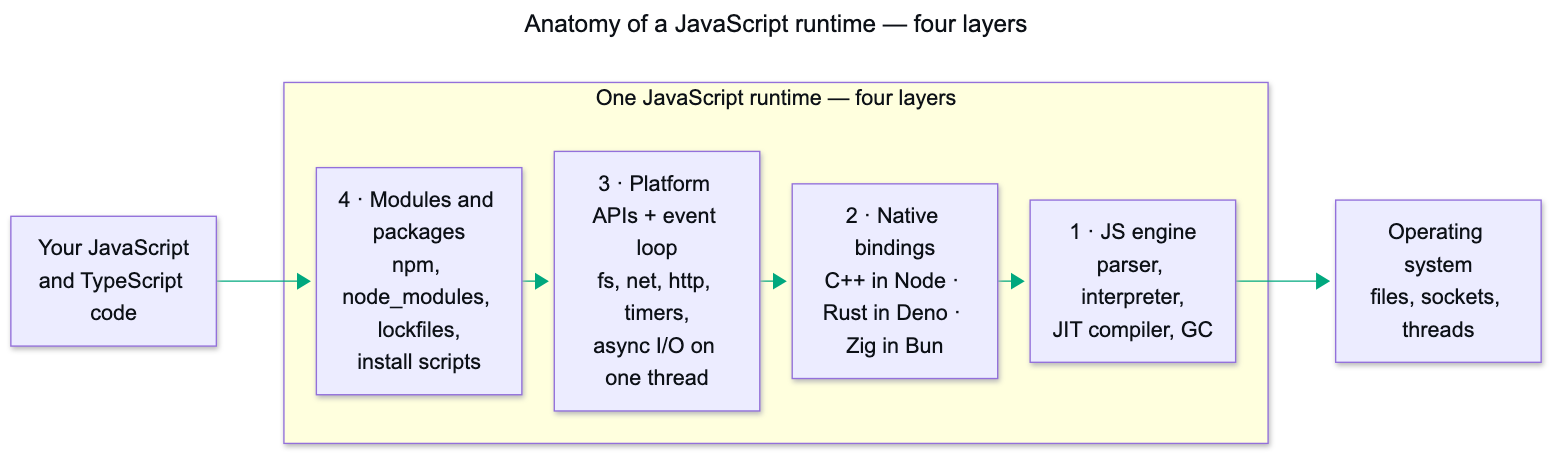
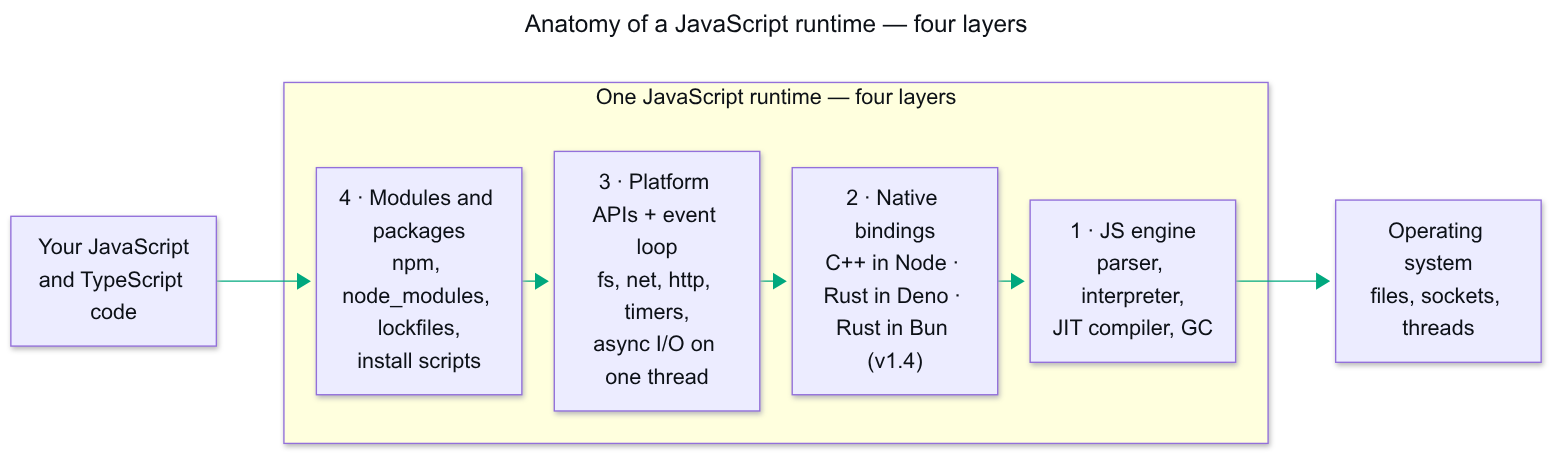
feat: update B-29/P-12 for Bun's Rust rewrite and runtime LTS models

diff --git a/presentations/P-12-runtime-war/index.html b/presentations/P-12-runtime-war/index.html
@@ -341,8 +341,8 @@ ul.refs li a{color:var(--muted);text-decoration:underline}
         <thead><tr><th>Layer</th><th>Node</th><th>Deno</th><th class="hl">Bun</th></tr></thead>
         <tbody>
           <tr><th>1 · Engine</th><td>V8 <span class="mono">[15]</span></td><td>V8 <span class="mono">[18]</span></td><td class="hl">JavaScriptCore <span class="mono">[17]</span></td></tr>
-          <tr><th>2 · Bindings</th><td>C++</td><td>Rust — Rusty V8 <span class="mono">[18]</span></td><td class="hl">Zig <span class="mono">[17]</span></td></tr>
-          <tr><th>3 · Loop + APIs</th><td>libuv <span class="mono">[16]</span></td><td>own, on Rust</td><td class="hl">own, on Zig</td></tr>
+          <tr><th>2 · Bindings</th><td>C++</td><td>Rust — Rusty V8 <span class="mono">[18]</span></td><td class="hl">Rust since v1.4 — was Zig <span class="mono">[19]</span></td></tr>
+          <tr><th>3 · Loop + APIs</th><td>libuv <span class="mono">[16]</span></td><td>own, on Rust</td><td class="hl">own, on Rust (Zig ≤ 1.3)</td></tr>
           <tr><th>4 · Modules</th><td>npm + node_modules</td><td>URL-first → npm since Deno 2 <span class="mono">[14]</span></td><td class="hl">npm-compatible from day one <span class="mono">[1]</span></td></tr>
         </tbody>
       </table>
@@ -357,14 +357,31 @@ ul.refs li a{color:var(--muted);text-decoration:underline}
     <div class="three-col">
       <div class="mode"><span class="tech">2009 · the incumbent</span><h4>Node</h4><p>The gravity well. Every tool, tutorial, and CI image in this report's baseline targets it first — 17+ years of ecosystem compounding.</p></div>
       <div class="mode violet"><span class="tech">2020 · the reformer — exited 2026</span><h4>Deno</h4><p>Node's original author's clean-slate rethink: TypeScript- and security-first, famously without npm <span class="mono">[13]</span>. Deno 2 reversed the founding bet — full Node/npm compatibility <span class="mono">[14]</span>. Joined Cloudflare, Oct 2026 <span class="mono">[12]</span>.</p></div>
-      <div class="mode"><span class="tech">2022 · the challenger</span><h4>Bun</h4><p>Entered from the opposite direction: Node-compatible from day one, selling raw speed <span class="mono">[1]</span>. Now the last independent challenger.</p></div>
+      <div class="mode"><span class="tech">2022 · the challenger</span><h4>Bun</h4><p>Entered from the opposite direction: Node-compatible from day one, selling raw speed <span class="mono">[1]</span>. Now the last independent challenger — bindings rewritten Zig → Rust in v1.4, May 2026 <span class="mono">[19]</span>.</p></div>
     </div>
     <div class="callout violet"><b>What Deno's exit teaches — and why it frames this deck:</b> clean slates lose to ecosystem gravity. Deno even shipped npm compatibility and still consolidated. So this report measures Bun by its <i>Node compatibility</i> — the gaps, the one missing <span class="mono">node:v8</span> call — not by its speed claims.</div>
   </section>
 
+  <!-- 02b · RELEASE TRAINS -->
+  <section class="slide" data-title="Release trains and LTS">
+    <div class="slide-num">05 · the war so far</div>
+    <h3 class="section">How they ship: <em>release trains and support windows</em>.</h3>
+    <div class="table-wrap">
+      <table>
+        <thead><tr><th></th><th>Node</th><th>Deno</th><th class="hl">Bun</th></tr></thead>
+        <tbody>
+          <tr><th>Cadence</th><td>major every 6 months <span class="mono">[21]</span></td><td>stable minor every 12 weeks <span class="mono">[20]</span></td><td class="hl">frequent stable + canary <span class="mono">[19]</span></td></tr>
+          <tr><th>LTS</th><td>even lines only — 30 months of support <span class="mono">[21]</span></td><td>LTS channel since 2.1 — ended Apr 2026 <span class="mono">[20]</span></td><td class="hl">none</td></tr>
+          <tr><th>Can you sit still?</th><td>yes — pin an even line, quiet for ~2 years</td><td>no — maintenance mode under Cloudflare <span class="mono">[12]</span></td><td class="hl">no — keep moving</td></tr>
+        </tbody>
+      </table>
+    </div>
+    <div class="callout accent"><b>Why it matters to the ladder:</b> at tiers 1–2 a moving runtime is a cheap version bump in CI. At tier 3, "no LTS" means the pinned version carries no promised support window — and the 1.3 → 1.4 minor bump carried a full Zig → Rust rewrite of ~535K lines <span class="mono">[19]</span>. This deck's probes ran on 1.3.10, the last Zig line.</div>
+  </section>
+
   <!-- 03 · FOUR DECISIONS -->
   <section class="slide" data-title="One question, four decisions">
-    <div class="slide-num">05 · the frame</div>
+    <div class="slide-num">06 · the frame</div>
     <h3 class="section">The one-word answer is <em>always wrong</em>.</h3>
     <p class="lead">"Should we move to Bun?" gets a yes or a no — and with Deno joining Cloudflare this month, Node and Bun are the only two independent runtimes left. But "Bun" is four separate tools, and each one can be adopted — or rejected — on its own:</p>
     <div class="table-wrap">
@@ -383,7 +400,7 @@ ul.refs li a{color:var(--muted);text-decoration:underline}
 
   <!-- 03 · CASE STUDY -->
   <section class="slide compact" data-title="The case study, sanitized">
-    <div class="slide-num">06 · the case study</div>
+    <div class="slide-num">07 · the case study</div>
     <h3 class="section">The subject: <em>two sibling production monorepos</em>.</h3>
     <div class="two-col">
       <div class="mode">
@@ -403,7 +420,7 @@ ul.refs li a{color:var(--muted);text-decoration:underline}
 
   <!-- 04 · FOUR TIERS -->
   <section class="slide compact" data-title="The four tiers">
-    <div class="slide-num">07 · the ladder</div>
+    <div class="slide-num">08 · the ladder</div>
     <h3 class="section">Four tiers, <em>climbed one at a time</em>.</h3>
     <div class="fig">
       <img src="../../assets/B-29/tier-ladder.png" alt="Ladder of four Bun adoption tiers — package manager, script and test runner, server runtime, bundler — with risk rising at each step" loading="lazy">
@@ -414,7 +431,7 @@ ul.refs li a{color:var(--muted);text-decoration:underline}
 
   <!-- 05 · TIER 1 TIMINGS -->
   <section class="slide" data-title="Tier 1 — the install timings">
-    <div class="slide-num">08 · tier 1 — package manager</div>
+    <div class="slide-num">09 · tier 1 — package manager</div>
     <h3 class="section">Tier 1 works. It's just <em>not faster</em> here.</h3>
     <p class="lead"><span class="mono">bun install</span> read the existing <span class="mono">pnpm-lock.yaml</span> and resolved <b>exactly the same set</b> — 2 181 and 1 963 packages, zero differences. The timings:</p>
     <div class="table-wrap">
@@ -433,7 +450,7 @@ ul.refs li a{color:var(--muted);text-decoration:underline}
 
   <!-- 06 · TIER 1 BEYOND SPEED -->
   <section class="slide" data-title="Tier 1 — beyond speed">
-    <div class="slide-num">09 · tier 1 — what actually bites</div>
+    <div class="slide-num">10 · tier 1 — what actually bites</div>
     <h3 class="section">Two details matter <em>more than speed</em>.</h3>
     <div class="vs">
       <div class="box warn">
@@ -450,7 +467,7 @@ ul.refs li a{color:var(--muted);text-decoration:underline}
 
   <!-- 07 · TIER 2 -->
   <section class="slide" data-title="Tier 2 — launch vs force">
-    <div class="slide-num">10 · tier 2 — scripts and tests</div>
+    <div class="slide-num">11 · tier 2 — scripts and tests</div>
     <h3 class="section">The pattern: <em>launch is safe, force is where surprises start</em>.</h3>
     <div class="vs">
       <div class="box good">
@@ -469,7 +486,7 @@ ul.refs li a{color:var(--muted);text-decoration:underline}
 
   <!-- 08 · node:v8 GAP -->
   <section class="slide" data-title="The node:v8 gap">
-    <div class="slide-num">11 · tier 2 — the crash explained</div>
+    <div class="slide-num">12 · tier 2 — the crash explained</div>
     <h3 class="section">One failing test file, <em>one missing Node API</em>.</h3>
     <div class="code-block"><span class="c"># Repo B, vitest with Bun's runtime forced:</span>
 NotImplementedError: <span class="f">node:v8</span> isBuildingSnapshot is <span class="k">not yet implemented in Bun</span>
@@ -485,7 +502,7 @@ NotImplementedError: <span class="f">node:v8</span> isBuildingSnapshot is <span 
 
   <!-- 09 · TIER 3 WORKED -->
   <section class="slide compact" data-title="Tier 3 — what worked">
-    <div class="slide-num">12 · tier 3 — server runtime</div>
+    <div class="slide-num">13 · tier 3 — server runtime</div>
     <h3 class="section">The server <em>boots, and everything loads</em>.</h3>
     <p class="lead">Compiled output and TypeScript source both ran through queue and Redis setup, and the path alias resolved. Then small probes, one by one:</p>
     <div class="three-col">
@@ -498,7 +515,7 @@ NotImplementedError: <span class="f">node:v8</span> isBuildingSnapshot is <span 
 
   <!-- 10 · TIER 3 RED FLAG -->
   <section class="slide" data-title="Tier 3 — the red flag">
-    <div class="slide-num">13 · tier 3 — what stopped me</div>
+    <div class="slide-num">14 · tier 3 — what stopped me</div>
     <h3 class="section">Then the part that <em>stopped me cold</em>.</h3>
     <div class="callout danger"><span class="label">the unexplained exit</span>Database deliberately unreachable. The full app — in <b>both repos</b> — <b>exited with code 1 about 30 to 40 seconds after the connection failed</b>. Node, same code: stays alive and logs the error. Small Mongoose and logging probes behave identically on both runtimes, so the cause could not be isolated. Never tested against a reachable database.</div>
     <div class="vs">
@@ -516,7 +533,7 @@ NotImplementedError: <span class="f">node:v8</span> isBuildingSnapshot is <span 
 
   <!-- 11 · TIER 4 -->
   <section class="slide" data-title="Tier 4 — the client falls over">
-    <div class="slide-num">14 · tier 4 — bundler</div>
+    <div class="slide-num">15 · tier 4 — bundler</div>
     <h3 class="section">The webpack client: <em>this is where it fell over</em>.</h3>
     <div class="table-wrap">
       <table>
@@ -534,7 +551,7 @@ NotImplementedError: <span class="f">node:v8</span> isBuildingSnapshot is <span 
 
   <!-- 12 · VITE -->
   <section class="slide" data-title="The real fix: Vite">
-    <div class="slide-num">15 · tier 4 — the actual move</div>
+    <div class="slide-num">16 · tier 4 — the actual move</div>
     <h3 class="section">The client's real problem isn't Bun. <em>It's webpack.</em></h3>
     <ul class="bullets">
       <li><strong>Vue CLI is in maintenance mode</strong> <span class="muted">— and it points users to Vite itself. The tool under your client is already end-of-life-ish.</span></li>
@@ -546,7 +563,7 @@ NotImplementedError: <span class="f">node:v8</span> isBuildingSnapshot is <span 
 
   <!-- 13 · WHAT WOULD BITE YOU -->
   <section class="slide" data-title="What would bite you">
-    <div class="slide-num">16 · transfer to your repo</div>
+    <div class="slide-num">17 · transfer to your repo</div>
     <h3 class="section">What would bite <em>in your own repo</em>.</h3>
     <ul class="checklist" style="max-width:80ch">
       <li><b>Native modules + postinstall scripts</b> — Bun's trust model differs from pnpm's; list <span class="mono">trustedDependencies</span> explicitly.</li>
@@ -560,7 +577,7 @@ NotImplementedError: <span class="f">node:v8</span> isBuildingSnapshot is <span 
 
   <!-- 14 · MIGRATION PATH -->
   <section class="slide compact" data-title="The phased path">
-    <div class="slide-num">17 · the migration path</div>
+    <div class="slide-num">18 · the migration path</div>
     <h3 class="section">Phased, with a <em>rollback at every step</em>.</h3>
     <div class="fig">
       <img src="../../assets/B-29/migration-path.png" alt="Phased migration flow — Bun as package manager, Bun to launch scripts, client moved to Vite, Bun as server runtime last — with a rollback exit after each phase" loading="lazy">
@@ -576,7 +593,7 @@ NotImplementedError: <span class="f">node:v8</span> isBuildingSnapshot is <span 
 
   <!-- 15 · WHEN (NOT) TO -->
   <section class="slide" data-title="When not to migrate">
-    <div class="slide-num">18 · the decision</div>
+    <div class="slide-num">19 · the decision</div>
     <h3 class="section">Stay or go? <em>Evidence, not vibes.</em></h3>
     <div class="vs">
       <div class="box bad">
@@ -597,7 +614,7 @@ NotImplementedError: <span class="f">node:v8</span> isBuildingSnapshot is <span 
 
   <!-- 16 · VERIFY NEXT -->
   <section class="slide" data-title="What I'd verify next">
-    <div class="slide-num">19 · open ends</div>
+    <div class="slide-num">20 · open ends</div>
     <h3 class="section">What I would <em>verify next</em>.</h3>
     <ul class="checklist" style="max-width:72ch">
       <li><b>Re-run the server probe against real MongoDB and Redis</b> — explain the exit code 1 before any runtime conversation continues.</li>
@@ -615,7 +632,7 @@ NotImplementedError: <span class="f">node:v8</span> isBuildingSnapshot is <span 
 
   <!-- 17 · REFERENCES -->
   <section class="slide" data-title="References">
-    <div class="slide-num">20 · references</div>
+    <div class="slide-num">21 · references</div>
     <h3 class="section">Sources — <em>primary first</em>.</h3>
     <ul class="refs">
       <li data-n="1"><a href="https://bun.com/docs/runtime/nodejs-compat" target="_blank" rel="noopener">Bun — Node.js compatibility</a></li>
@@ -636,13 +653,16 @@ NotImplementedError: <span class="f">node:v8</span> isBuildingSnapshot is <span 
       <li data-n="16"><a href="https://libuv.org" target="_blank" rel="noopener">libuv — the async I/O library behind Node's event loop</a></li>
       <li data-n="17"><a href="https://bun.com/blog/bun-v1.0" target="_blank" rel="noopener">Bun — "Bun 1.0" (Zig + JavaScriptCore, Node-compatible from day one)</a></li>
       <li data-n="18"><a href="https://deno.com/blog/rusty-v8-stabilized" target="_blank" rel="noopener">Deno — "Stable V8 Bindings for Rust" (Rusty V8)</a></li>
+      <li data-n="19"><a href="https://bun.com/blog/bun-in-rust" target="_blank" rel="noopener">Bun — "Rewriting Bun in Rust" (v1.4.0; release channels, no LTS)</a></li>
+      <li data-n="20"><a href="https://docs.deno.com/runtime/fundamentals/stability_and_releases" target="_blank" rel="noopener">Deno — "Stability and releases" (stable/LTS/canary cadence)</a></li>
+      <li data-n="21"><a href="https://nodejs.org/en/about/previous-releases" target="_blank" rel="noopener">Node.js — "Previous releases" (even-line LTS, 30-month support)</a></li>
     </ul>
-    <div class="foot">Accessed 2026-10-13 (references 12–18: 2026-10-14). Timings are single-run measurements: Bun 1.3.10, Node 24, pnpm 10. 10–11 corroborate symptoms seen in our own runs.</div>
+    <div class="foot">Accessed 2026-10-13 (references 12–21: 2026-10-14). Timings are single-run measurements: Bun 1.3.10, Node 24, pnpm 10. 10–11 corroborate symptoms seen in our own runs.</div>
   </section>
 
   <!-- 18 · END -->
   <section class="slide hero" data-title="Four verdicts, one path">
-    <div class="slide-num">21 · take it away</div>
+    <div class="slide-num">22 · take it away</div>
     <h3 class="section">Bun is not one decision. <em>Make four of them.</em></h3>
     <p class="lead">Take the easy wins at the bottom of the ladder, fix the client where it actually hurts, and make the runtime earn its way in. Rollback at every step.</p>
     <div class="end-links">
@@ -663,7 +683,7 @@ NotImplementedError: <span class="f">node:v8</span> isBuildingSnapshot is <span 
 </div>
 
 <div class="dk-goto" id="gotoOverlay">
-  <input type="text" id="gotoInput" maxlength="2" inputmode="numeric" placeholder="1-21">
+  <input type="text" id="gotoInput" maxlength="2" inputmode="numeric" placeholder="1-22">
 </div>
 
 <div class="dk-help" id="helpOverlay">

diff --git a/research/B-29/deck-brief.md b/research/B-29/deck-brief.md
@@ -10,25 +10,26 @@ Framing (references 12–14): slides 02–03 open with the runtime-anatomy deep-
 |---|-------|---------|-------|
 | 01 | Hero | Title, verdict subtitle, pills (Bun 1.3.10 / Node 24 / pnpm 10 / 2 monorepos / 4 tiers), link to post | Hook: "Bun is not one decision. It is four." |
 | 02 | What a runtime is | `runtime-anatomy.png` (LR strip) + callout: engine is a solved problem; compatibility is a layer-4 property | The technical deep-dive before the war; refs 15–18 land on slide 03 |
-| 03 | Same anatomy, three builds | Layer × runtime table: engine V8/V8/JavaScriptCore, bindings C++/Rust/Zig, loop libuv/own/own, modules npm/URL-first→npm/npm-compat | Rows 3–4 are where the runtimes actually differ |
-| 04 | The war so far | Three-col Node (2009) / Deno (2020, exited 2026) / Bun (2022), refs 12–14 + violet callout: compatibility beat the clean slate | Deno gets real presence before the matchup is measured |
-| 05 | One question, four decisions | Why one-word answers fail; verdict strip per tier (yes / yes, with caveats / not yet / no) | Set the frame before any data |
-| 06 | The case study | Two sibling pnpm monorepos, 5 packages each, stack table, baseline | Name the honesty caveats up front: throwaway copies, dummy config, no reachable DB/Redis, single runs = direction |
-| 07 | The four tiers | `tier-ladder.png` | Each tier adopted or rejected on its own |
-| 08 | Tier 1 — install timings | pnpm vs bun table (warm/cold/hoisted) | Punchline: on a warm pnpm store, Bun was not faster |
-| 09 | Tier 1 — beyond speed | `trustedDependencies` vs `onlyBuiltDependencies`; isolated linker vs `shamefully-hoist`; the Babel-plugin failure | Two config truths matter more than the timings |
-| 10 | Tier 2 — launch vs force | Wins (shared builds 9.2→5.6 s, vue-tsc 2–4×) vs losses (tsc 46.7→86.8 s, vitest bson fail, `bun test` hang) | Pattern: launching tools is safe; forcing the runtime is where surprises start |
-| 11 | The `node:v8` gap | `NotImplementedError: isBuildingSnapshot`; bson 7.3.3 vs 7.2.0; a dependency bump can flip it | Pin `bson`; community reports corroborate. Code block wraps on phones, scrolls on desktop |
-| 12 | Tier 3 — what worked | Boots to connect stage; probe grid: sharp, puppeteer, Mongoose, mongodb, BullMQ, ioredis, socket.io, module-alias | |
-| 13 | Tier 3 — the red flag | Exit code 1, 30–40 s after DB connection fails; Node stays alive; unexplained; plus watch/PM2 caveats | "Cheap to find in a probe, expensive to production" |
-| 14 | Tier 4 — client build falls over | Result table: Node 3:36 OK; isolated: instant Babel fail; hoisted + `--bun`: 5:21 CSS fail; Repo B: 28-min hang vs 1:43 | |
-| 15 | The real client fix is Vite | Vue CLI is maintenance mode; 3–6 days per client (estimate) | Do it for its own reasons, then ask what Bun adds |
-| 16 | What would bite you | Checklist: native modules, hidden hoisting, Node API gaps, `.env` autoload (`NODE_ENV=production` in CI), memory flags, docs gaps | |
-| 17 | The phased path | `migration-path.png` + 4 steps, each with rollback | Rollback is the design, not an afterthought |
-| 18 | When (not) to migrate | Stay-vs-go boxes | Migrate on a concrete payoff, not the hype |
-| 19 | Verify next + verdict | Follow-ups checklist; "I would not switch the production runtime today" | |
-| 20 | References | Condensed mirror of the blog's 18 references | |
-| 21 | End | Links: full post, Bun docs, Vite, back to all decks | |
+| 03 | Same anatomy, three builds | Layer × runtime table: engine V8/V8/JavaScriptCore, bindings C++/Rust/Rust (v1.4 rewrite, was Zig ≤ 1.3), loop libuv/own/own, modules npm/URL-first→npm/npm-compat | Rows 3–4 are where the runtimes actually differ |
+| 04 | The war so far | Three-col Node (2009) / Deno (2020, exited 2026) / Bun (2022, Zig→Rust rewrite v1.4 May 2026), refs 12–14 + violet callout: compatibility beat the clean slate | Deno gets real presence before the matchup is measured |
+| 05 | Release trains and LTS | Cadence/LTS/sit-still table: Node 6-month majors + even-line 30-month LTS; Deno 12-week minors, LTS channel ended Apr 2026; Bun no LTS, stable + canary, 1.3→1.4 rode the Zig→Rust rewrite | Mirrors the blog's "Release Trains and LTS" section; refs 19–21 |
+| 06 | One question, four decisions | Why one-word answers fail; verdict strip per tier (yes / yes, with caveats / not yet / no) | Set the frame before any data |
+| 07 | The case study | Two sibling pnpm monorepos, 5 packages each, stack table, baseline | Name the honesty caveats up front: throwaway copies, dummy config, no reachable DB/Redis, single runs = direction |
+| 08 | The four tiers | `tier-ladder.png` | Each tier adopted or rejected on its own |
+| 09 | Tier 1 — install timings | pnpm vs bun table (warm/cold/hoisted) | Punchline: on a warm pnpm store, Bun was not faster |
+| 10 | Tier 1 — beyond speed | `trustedDependencies` vs `onlyBuiltDependencies`; isolated linker vs `shamefully-hoist`; the Babel-plugin failure | Two config truths matter more than the timings |
+| 11 | Tier 2 — launch vs force | Wins (shared builds 9.2→5.6 s, vue-tsc 2–4×) vs losses (tsc 46.7→86.8 s, vitest bson fail, `bun test` hang) | Pattern: launching tools is safe; forcing the runtime is where surprises start |
+| 12 | The `node:v8` gap | `NotImplementedError: isBuildingSnapshot`; bson 7.3.3 vs 7.2.0; a dependency bump can flip it | Pin `bson`; community reports corroborate. Code block wraps on phones, scrolls on desktop |
+| 13 | Tier 3 — what worked | Boots to connect stage; probe grid: sharp, puppeteer, Mongoose, mongodb, BullMQ, ioredis, socket.io, module-alias | |
+| 14 | Tier 3 — the red flag | Exit code 1, 30–40 s after DB connection fails; Node stays alive; unexplained; plus watch/PM2 caveats | "Cheap to find in a probe, expensive to production" |
+| 15 | Tier 4 — client build falls over | Result table: Node 3:36 OK; isolated: instant Babel fail; hoisted + `--bun`: 5:21 CSS fail; Repo B: 28-min hang vs 1:43 | |
+| 16 | The real client fix is Vite | Vue CLI is maintenance mode; 3–6 days per client (estimate) | Do it for its own reasons, then ask what Bun adds |
+| 17 | What would bite you | Checklist: native modules, hidden hoisting, Node API gaps, `.env` autoload (`NODE_ENV=production` in CI), memory flags, docs gaps | |
+| 18 | The phased path | `migration-path.png` + 4 steps, each with rollback | Rollback is the design, not an afterthought |
+| 19 | When (not) to migrate | Stay-vs-go boxes | Migrate on a concrete payoff, not the hype |
+| 20 | Verify next + verdict | Follow-ups checklist; "I would not switch the production runtime today" | |
+| 21 | References | Condensed mirror of the blog's 21 references | |
+| 22 | End | Links: full post, Bun docs, Vite, back to all decks | |
 
 ## Sanitization
 

diff --git a/topics/Development/Bun/The War on JavaScript Runtimes - Can Bun Replace Node in a Large Production Monorepo.md b/topics/Development/Bun/The War on JavaScript Runtimes - Can Bun Replace Node in a Large Production Monorepo.md
@@ -17,7 +17,7 @@ Before the war, the territory. A JavaScript runtime is the program that takes yo
 ![Stack diagram of a JavaScript runtime: app code on top, then modules and packages, platform APIs and event loop, native bindings, JS engine, and the operating system underneath](../../../assets/B-29/runtime-anatomy.png)
 
 - **Layer 1 — the JS engine.** The parser, interpreter, JIT compiler, and garbage collector. Node and Deno embed V8 [15]; Bun embeds JavaScriptCore, Safari's engine [17]. This layer is a solved problem in all three — engines are mature, fast, and interchangeable.
-- **Layer 2 — the native bindings.** The glue that exposes the operating system to JavaScript. Node's bindings are largely C++; Deno's are Rust, through the Rusty V8 bindings [18]; Bun's are Zig [17]. This is where each runtime's identity starts.
+- **Layer 2 — the native bindings.** The glue that exposes the operating system to JavaScript. Node's bindings are largely C++; Deno's are Rust, through the Rusty V8 bindings [18]; Bun's were Zig through 1.3.x and were rewritten in Rust for v1.4.0 (May 2026) [19]. This is where each runtime's identity starts.
 - **Layer 3 — platform APIs and the event loop.** `fs`, `net`, `http`, timers, and the loop that schedules async I/O on a single thread. Node's loop comes from libuv [16]; Deno and Bun each wrote their own on top of their bindings. Nearly every "runtime bug" you will meet lives here or above.
 - **Layer 4 — modules and packages.** How code loads: npm, `node_modules` layout, lockfiles, install scripts, TypeScript stripping. This layer has no specification, only Node's behavior as de facto law.
 
@@ -30,6 +30,16 @@ This war had three sides. Node shipped in 2009 and became the gravity well: ever
 The interesting part is what Deno did next. Deno 2, in October 2024, reversed the founding bet and shipped full Node and npm backwards compatibility [14] — the ecosystem it rejected became the price of admission. And it still was not enough to stay independent: on October 9, 2026, Deno announced it is joining Cloudflare, with the runtime on roughly a year of maintenance releases and Deno Deploy winding down [12].
 
 So the field is down to Node and Bun, and the loser's story is the lens for this whole report: compatibility with the existing ecosystem beat a cleaner design, even after Deno conceded and added it. That is why everything below measures Bun by its Node compatibility — the gaps, the one missing `node:v8` call — rather than by its speed claims.
+
+## Release Trains and LTS
+
+Speed is not the only thing a runtime team ships. How a project versions, patches, and supports its releases decides how much upgrade work lands on you, and the three projects could not differ more.
+
+- **Node ships on a fixed train.** A new major every six months: the April release is Current-only, while the October one — even-numbered, like 22, 24, 26 — becomes LTS and is supported for 30 months [21]. Odd-numbered lines live about six months and never become LTS. The practical meaning: pin an even Node in your Docker image and you can ignore upgrades for two years.
+- **Deno had an LTS channel, briefly.** Stable minors on a 12-week schedule, an LTS channel since 2.1 with about six months of backported critical fixes, canary builds on every commit [20]. That LTS line ended in April 2026 — the maintenance-mode reality arrived before the support window did [12].
+- **Bun has no LTS at all.** One rolling stable channel with frequent patch and minor releases, plus a canary channel (`bun upgrade --canary`) for pre-release work [19]. Nothing is designated safe to sit on; the assumption is you keep moving.
+
+That last point prices differently per tier. At tiers 1–2 a moving runtime is a mild tax — an upgrade is a version bump in CI. At tier 3 it means the version you pin carries no promised support window, and the jump from 1.3 to 1.4 is the proof: a minor-looking bump that carried a full rewrite of the runtime's ~535K lines of Zig to Rust [19]. This report's probes ran on 1.3.10, the last Zig line — worth remembering when you compare numbers.
 
 ## The Case Study (Sanitized)
 
@@ -153,8 +163,11 @@ I would rerun the server probe against real MongoDB and Redis to explain the exi
 16. libuv: https://libuv.org
 17. Bun, "Bun 1.0": https://bun.com/blog/bun-v1.0
 18. Deno, "Announcing Stable V8 Bindings for Rust" (Rusty V8): https://deno.com/blog/rusty-v8-stabilized
+19. Bun, "Rewriting Bun in Rust" (v1.4.0, May 2026): https://bun.com/blog/bun-in-rust
+20. Deno, "Stability and releases" (channels and cadence): https://docs.deno.com/runtime/fundamentals/stability_and_releases
+21. Node.js, "Previous releases" (LTS schedule and support windows): https://nodejs.org/en/about/previous-releases
 
-All accessed 2026-10-13 (references 12–18 on 2026-10-14). Timings are my own single-run measurements with Bun 1.3.10, Node 24 and pnpm 10.
+All accessed 2026-10-13 (references 12–21 on 2026-10-14). Timings are my own single-run measurements with Bun 1.3.10, Node 24 and pnpm 10.
 
 ## Let's Connect
 

diff --git a/research/B-29/research.md b/research/B-29/research.md
@@ -94,4 +94,14 @@ No production runtime switch is recommended.
 
 ## Runtime anatomy framing (added with the deep-dive)
 
-The blog and deck open with a four-layer model of a JavaScript runtime — 1) JS engine, 2) native bindings, 3) platform APIs + event loop, 4) modules/packages. Node and Deno embed V8; Bun embeds JavaScriptCore. Bindings: C++ (Node), Rust via Rusty V8 (Deno), Zig (Bun). Node's loop is libuv; Deno and Bun wrote their own. The point of the model: "Node compatibility" is a layer-4 property plus a slice of layer 3 — every Bun verdict in the report is a verdict on layer 4, and Deno's arc (rewrite layer 4, then walk it back) is the cautionary tale. Sources: references 15–18 in `references.md`. Diagram: `assets/B-29/runtime-anatomy.png` (rendered LR so one PNG serves both blog and deck).
+The blog and deck open with a four-layer model of a JavaScript runtime — 1) JS engine, 2) native bindings, 3) platform APIs + event loop, 4) modules/packages. Node and Deno embed V8; Bun embeds JavaScriptCore. Bindings: C++ (Node), Rust via Rusty V8 (Deno), Rust in Bun since the v1.4.0 rewrite (Zig through 1.3.x; probes here ran on 1.3.10, the last Zig line) [19]. Node's loop is libuv; Deno and Bun wrote their own. The point of the model: "Node compatibility" is a layer-4 property plus a slice of layer 3 — every Bun verdict in the report is a verdict on layer 4, and Deno's arc (rewrite layer 4, then walk it back) is the cautionary tale. Sources: references 15–18 in `references.md`. Diagram: `assets/B-29/runtime-anatomy.png` (rendered LR so one PNG serves both blog and deck).
+
+## Release trains and LTS (added with the 2026-10-14 update)
+
+How each runtime ships updates, now covered in the blog ("Release Trains and LTS") and deck slide 05:
+
+- **Node** — major every 6 months; even-numbered October lines become LTS with 30 months of total support (Active, then Maintenance); odd lines are Current-only for ~6 months. Pin an even line, stay quiet ~2 years [21].
+- **Deno** — stable minor every 12 weeks; LTS channel since 2.1 with ~6 months of backported critical fixes — that channel ended 2026-04-30, before the Cloudflare announcement; canary builds per commit [20].
+- **Bun** — no LTS at all: one rolling stable channel plus canary (`bun upgrade --canary`). The 1.3 → 1.4 minor bump carried a full Zig → Rust rewrite of ~535K lines (merged 2026-05-14, 19 regressions, all fixed; binaries ~20% smaller, ~2–5% faster) [19]. Anthropic acquired Bun in December 2025.
+
+Pricing per tier: at tiers 1–2 the moving release train is a cheap CI version bump; at tier 3 "no LTS" means the pinned version has no promised support window.

diff --git a/research/B-29/social/bn-linkedin.md b/research/B-29/social/bn-linkedin.md
@@ -15,9 +15,11 @@
 
 আমার সুপারিশ: Bun-কে ঐচ্ছিক প্যাকেজ ম্যানেজার ও স্ক্রিপ্ট লঞ্চার হিসেবে নিন, ক্লায়েন্ট Vite-এ সরান, আর সার্ভার রানটাইমে যাওয়ার আগে soak test করুন।
 
+পক্ষ বাছার আগে আরেকটা জিনিস জানা দরকার: তিনটা প্রজেক্টের আপডেট-মডেল সম্পূর্ণ আলাদা। Node-এ even-numbered রিলিজ LTS হয়, ৩০ মাস সাপোর্ট। Deno-র LTS চ্যানেল এপ্রিলে শেষ। Bun-এর কোনো LTS নেই — আর ১.৩ থেকে ১.৪-এর মাইনর বাম্পেই পুরো রানটাইম Zig থেকে Rust-এ রিরাইট হয়ে গেছে (v1.4, মে ২০২৬)। লেখায় এখন প্রতিটা রানটাইমের রিলিজ-ট্রেন আর প্রতি ধাপে "LTS নেই" মানে কত খরচ, সেটা আছে।
+
 সবগুলো এক মেশিনে একবার করে চালানো, তাই সময়গুলোকে দিকনির্দেশনা হিসেবে দেখুন। মাপজোখ, সীমাবদ্ধতা ও রেফারেন্সসহ পুরো লেখা (ইংরেজিতে):
 https://github.com/Encryptioner/blogs/blob/master/topics/Development/Bun/The%20War%20on%20JavaScript%20Runtimes%20-%20Can%20Bun%20Replace%20Node%20in%20a%20Large%20Production%20Monorepo.md
 
 #Bun #NodeJS #TypeScript #WebDevelopment #SoftwareEngineering
 
-সূত্র: Bun অফিশিয়াল ডক (Node compatibility, lifecycle scripts, isolated installs), Vue CLI। পুরো তালিকা লেখায় আছে।
+সূত্র: Bun অফিশিয়াল ডক (Node compatibility, lifecycle scripts, isolated installs), Bun-এর "Rewriting Bun in Rust" পোস্ট, Node.js রিলিজ শিডিউল, Deno stability ডক, Vue CLI। পুরো তালিকা লেখায় আছে।

diff --git a/research/B-29/social/bn-facebook.md b/research/B-29/social/bn-facebook.md
@@ -6,7 +6,7 @@ Node-এর বদলে Bun ব্যবহার করা যায় কি
 
 সোজা ফলাফল: প্যাকেজ ম্যানেজার আর স্ক্রিপ্ট লঞ্চার হিসেবে বেশ ভালো, প্রোডাকশন সার্ভার রানটাইম হিসেবে এখনো প্রস্তুত না, আর webpack-ভিত্তিক Vue অ্যাপের জন্য সরাসরি বদলি না। দুইটা চমক ছিল: warm cache-এ ইনস্টলে pnpm-এর চেয়ে দ্রুত হয়নি, আর ডাটাবেস ফেইল করার প্রায় ৩০ সেকেন্ড পর সার্ভার নিজে নিজেই বন্ধ হয়ে গেছে, যেটা Node-এ হয়নি, কারণও বের করতে পারিনি।
 
-বড় প্রজেক্টে Bun নিয়ে ভাবলে ধাপে ধাপে যান, প্রতিটা ধাপে rollback রেখে। সংখ্যা ও রেফারেন্সসহ পুরো লেখা (ইংরেজিতে):
+বড় প্রজেক্টে Bun নিয়ে ভাবলে ধাপে ধাপে যান, প্রতিটা ধাপে rollback রেখে। আর জেনে রাখুন কে কেমন আপডেট দেয়: Node-এ ৩০ মাসের LTS লাইন আছে, Deno-র LTS এপ্রিলে শেষ, Bun-এর কোনো LTS নেই — ১.৩ থেকে ১.৪-এই পুরো রানটাইম Zig থেকে Rust-এ রিরাইট হয়েছে। সংখ্যা ও রেফারেন্সসহ পুরো লেখা (ইংরেজিতে):
 https://github.com/Encryptioner/blogs/blob/master/topics/Development/Bun/The%20War%20on%20JavaScript%20Runtimes%20-%20Can%20Bun%20Replace%20Node%20in%20a%20Large%20Production%20Monorepo.md
 
 সূত্র: Bun অফিশিয়াল ডক। বাকিটা লেখায় আছে।

diff --git a/research/B-29/references.md b/research/B-29/references.md
@@ -22,6 +22,9 @@ All accessed 2026-10-13. "Primary" = official docs. "Secondary" = community writ
 | 16 | libuv | https://libuv.org | Primary | The cross-platform async I/O library powering Node's event loop (layer 3). Accessed 2026-10-14 |
 | 17 | Bun 1.0 (Bun blog) | https://bun.com/blog/bun-v1.0 | Primary | Zig + JavaScriptCore instead of Rust/V8; Node-compatible from day one (layers 1, 2, 4). Accessed 2026-10-14 |
 | 18 | Announcing Stable V8 Bindings for Rust (Deno blog) | https://deno.com/blog/rusty-v8-stabilized | Primary | Deno written in Rust on Rusty V8 bindings (layers 1, 2). Accessed 2026-10-14 |
+| 19 | Rewriting Bun in Rust (Bun blog) | https://bun.com/blog/bun-in-rust | Primary | Bun v1.4.0 (2026-05): ~535K lines Zig → Rust; last Zig = 1.3.14; JavaScriptCore and other C/C++ libs stay; release channels stable + canary, no LTS. Layers 2, 3. Accessed 2026-10-14 |
+| 20 | Stability and releases (Deno docs) | https://docs.deno.com/runtime/fundamentals/stability_and_releases | Primary | Deno channels: stable minor every 12 weeks, LTS since 2.1 (~6 months of backported fixes, ended 2026-04-30), canary per commit. Accessed 2026-10-14 |
+| 21 | Previous releases (nodejs.org) | https://nodejs.org/en/about/previous-releases | Primary | Node: major every 6 months; even-numbered October lines become LTS with 30 months total support; odd lines ~6 months, never LTS. Accessed 2026-10-14 |
 
 ## Own measurements
 

diff --git a/research/B-29/social/en-linkedin.md b/research/B-29/social/en-linkedin.md
@@ -15,9 +15,11 @@ What I found:
 
 My recommendation: adopt Bun as an optional package manager and script launcher, move the client to Vite, and earn the server runtime switch with a soak test.
 
+One more thing worth knowing before picking a side: the three projects ship updates very differently. Node pins even-numbered releases as LTS with 30 months of support. Deno's LTS channel ended in April. Bun has no LTS at all — and its 1.3 to 1.4 bump carried a full rewrite of the runtime from Zig to Rust (v1.4, May 2026). The post now covers each runtime's release train and what "no LTS" costs at each adoption tier.
+
 Single runs, so read the timings as direction. Full write-up with measurements, caveats and references:
 https://github.com/Encryptioner/blogs/blob/master/topics/Development/Bun/The%20War%20on%20JavaScript%20Runtimes%20-%20Can%20Bun%20Replace%20Node%20in%20a%20Large%20Production%20Monorepo.md
 
 #Bun #NodeJS #TypeScript #WebDevelopment #SoftwareEngineering
 
-Sources: Bun docs (Node compatibility, lifecycle scripts, isolated installs), Vue CLI, Deno's "Deno is joining Cloudflare" announcement. Full list in the post.
+Sources: Bun docs (Node compatibility, lifecycle scripts, isolated installs), Bun's "Rewriting Bun in Rust" post, Node.js release schedule, Deno stability docs, Vue CLI, Deno's "Deno is joining Cloudflare" announcement. Full list in the post.

diff --git a/research/B-29/social/en-facebook.md b/research/B-29/social/en-facebook.md
@@ -6,7 +6,7 @@ Why now: Deno just joined Cloudflare, its runtime on a one-year maintenance cloc
 
 The honest result: great as a package manager and script launcher, not ready as a production server runtime, and not a drop-in for a webpack-based Vue app. One surprise: it was not faster than pnpm at installing on a warm cache. Another: the server exited on its own about 30 seconds after a database failure, which Node did not do, and I could not explain why.
 
-If you are thinking about Bun for a big project, migrate in steps, each with a rollback. Full write-up with numbers and references:
+If you are thinking about Bun for a big project, migrate in steps, each with a rollback. And know how each runtime ships updates: Node has 30-month LTS lines, Deno's LTS ended in April, Bun has no LTS at all — its 1.3 to 1.4 bump carried a full Zig to Rust rewrite. Full write-up with numbers and references:
 https://github.com/Encryptioner/blogs/blob/master/topics/Development/Bun/The%20War%20on%20JavaScript%20Runtimes%20-%20Can%20Bun%20Replace%20Node%20in%20a%20Large%20Production%20Monorepo.md
 
 Source: Bun official docs. More in the post.

diff --git a/presentations/docs/README.md b/presentations/docs/README.md
@@ -28,6 +28,17 @@ Public path for every presentation **and its companion blog post** (markdown
 blob link or raw-content proxy link, per format) is documented in
 [`PUBLIC_LINKS.md`](./PUBLIC_LINKS.md).
 
+## Opening a deck locally
+
+Plain viewing: double-click the deck's `index.html` (or open it via `file://`).
+Engine CSS/JS load from absolute jsDelivr URLs, so a deck works straight from
+a checkout — but you always see the *live* CDN copy of those shared files.
+
+Iterating on shared assets (`deck.js` / chrome CSS): see
+[`CHECKLIST.md`](./CHECKLIST.md) §7 — temporarily swap the jsDelivr prefix to
+a relative `../assets/` path, serve `presentations/` with
+`python3 -m http.server`, then swap back to the absolute URL before committing.
+
 ## Decks wired in
 
 | Deck | Engine | Canvas | Slide sel | Extra features |
